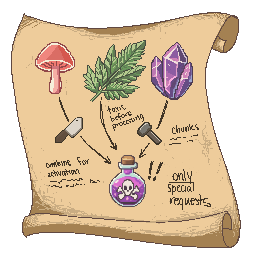
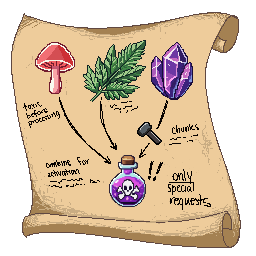
adding in posiioin recipie

diff --git a/scripting/WorkStation.cpp b/scripting/WorkStation.cpp
@@ -98,7 +98,15 @@ void WorkStation::Interact(InteractPayload* payload)
                         newPotion->AddComponent<SpriteLoader>(true, "sprtShader");
                         newPotion->AddComponent<SpriteRenderer>(true, "green_potion");
                         newPotion->AddComponent<Potion>(true, "green_potion");
-                    } else if (ingredientCounts.count("FlowerIngredient")) {
+                    } else if (ingredientCounts.count("MushroomIngredient") && ingredientCounts.count("LeafIngredient") && ingredientCounts.count("PurpleQuartzSmashedIngredient")) {
+                        ingredientCounts.clear();
+                        isEmpty = true;
+                        glm::vec2 newPos(GetTransform()->position().x, GetTransform()->position().y - 64);
+                        Entity* newPotion = SceneManager::Get()->getScene()->Instantiate("RedPotion", newPos, glm::vec2{64, 64}, 0, 1);
+                        newPotion->AddComponent<SpriteLoader>(true, "sprtShader");
+                        newPotion->AddComponent<SpriteRenderer>(true, "poison_potion");
+                        newPotion->AddComponent<Potion>(true, "poison_potion");
+                    }else if (ingredientCounts.count("FlowerIngredient")) {
                         ingredientCounts.clear();
                         isEmpty = true;
                         glm::vec2 newPos(GetTransform()->position().x, GetTransform()->position().y - 64);
